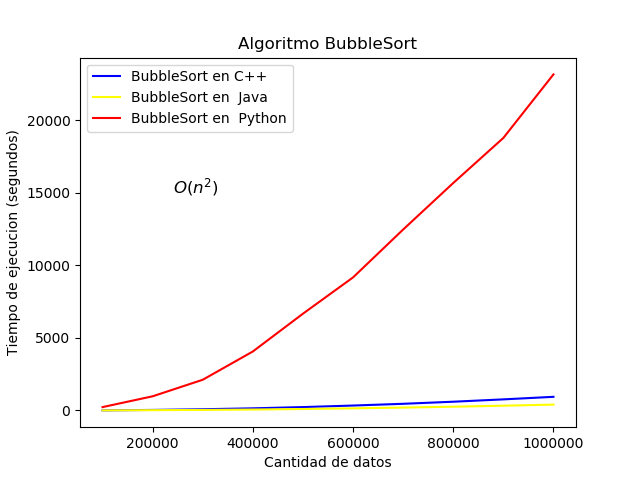
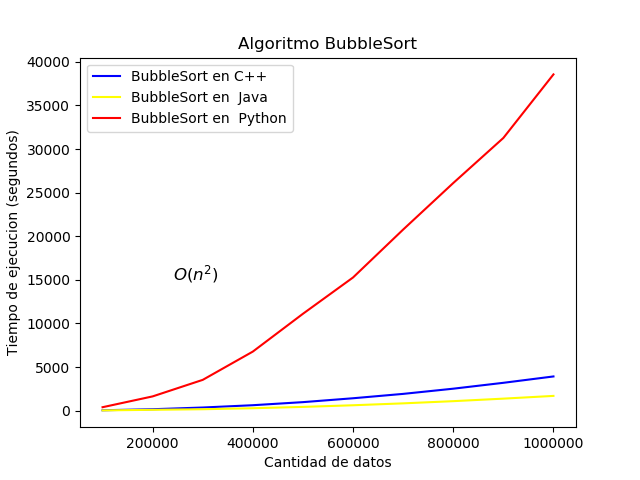
commit final

diff --git a/AlgoritmosOrdenamiento/Comparaciones/Graficos/src/grafjava.py b/AlgoritmosOrdenamiento/Comparaciones/Graficos/src/grafjava.py
@@ -1,0 +1,25 @@
+import numpy as np
+from matplotlib import pyplot as plt
+
+
+x1,y1 = np.loadtxt('Medidas/BubbleSortjav.txt' , delimiter=' ' , unpack=True)
+x2,y2 = np.loadtxt('Medidas/CountSortjav.txt' , delimiter=' ' , unpack=True)
+x3,y3 = np.loadtxt('Medidas/HeapSortjav.txt' , delimiter=' ' , unpack=True)
+x4,y4 = np.loadtxt('Medidas/InsertionSortjav.txt' , delimiter=' ' , unpack=True)
+x5,y5 = np.loadtxt('Medidas/MergeSortjav.txt' , delimiter=' ' , unpack=True)
+x6,y6 = np.loadtxt('Medidas/QuickSortjav.txt' , delimiter=' ' , unpack=True)
+x7,y7 = np.loadtxt('Medidas/SeleccionSortjav.txt' , delimiter=',' , unpack=True)
+
+plt.plot(x1,y1*25,color="red",label="BubbleSort")
+plt.plot(x2,y2,color="blue",label="CountSort")
+plt.plot(x3,y3,color="yellow",label="HeapSort")
+plt.plot(x4,y4*25,color="pink",label="InsertionSort")
+plt.plot(x5,y5,color="purple",label="MergeSort")
+plt.plot(x6,y6,color="green",label="QuickSort")
+plt.plot(x7,y7,color="skyblue",label="SeletionSort")
+
+plt.legend()
+plt.title('Algoritmos en Java')
+plt.xlabel('Cantidad de datos')
+plt.ylabel('Tiempo de ejecucion (segundos)')
+plt.show()

diff --git a/AlgoritmosOrdenamiento/Comparaciones/Graficos/src/grafpython.py b/AlgoritmosOrdenamiento/Comparaciones/Graficos/src/grafpython.py
@@ -1,0 +1,25 @@
+import numpy as np
+from matplotlib import pyplot as plt
+
+
+x1,y1 = np.loadtxt('Medidas/BubbleSortpy.txt' , delimiter=' ' , unpack=True)
+x2,y2 = np.loadtxt('Medidas/CountSortpy.txt' , delimiter=' ' , unpack=True)
+x3,y3 = np.loadtxt('Medidas/HeapSortpy.txt' , delimiter=' ' , unpack=True)
+x4,y4 = np.loadtxt('Medidas/InsertionSortpy.txt' , delimiter=' ' , unpack=True)
+x5,y5 = np.loadtxt('Medidas/MergeSortpy.txt' , delimiter=' ' , unpack=True)
+x6,y6 = np.loadtxt('Medidas/QuickSortpy.txt' , delimiter=' ' , unpack=True)
+x7,y7 = np.loadtxt('Medidas/SeleccionSortpy.txt' , delimiter=',' , unpack=True)
+
+plt.plot(x1,y1*25,color="red",label="BubbleSort")
+plt.plot(x2,y2,color="blue",label="CountSort")
+plt.plot(x3,y3,color="yellow",label="HeapSort")
+plt.plot(x4,y4*25,color="pink",label="InsertionSort")
+plt.plot(x5,y5,color="purple",label="MergeSort")
+plt.plot(x6,y6,color="green",label="QuickSort")
+plt.plot(x7,y7,color="skyblue",label="SeletionSort")
+
+plt.legend()
+plt.title('Algoritmos en python')
+plt.xlabel('Cantidad de datos')
+plt.ylabel('Tiempo de ejecucion (segundos)')
+plt.show()

diff --git a/AlgoritmosOrdenamiento/Comparaciones/Graficos/src/grafcc.py b/AlgoritmosOrdenamiento/Comparaciones/Graficos/src/grafcc.py
@@ -1,0 +1,25 @@
+import numpy as np
+from matplotlib import pyplot as plt
+
+
+x1,y1 = np.loadtxt('Medidas/BubbleSortcc.txt' , delimiter=' ' , unpack=True)
+x2,y2 = np.loadtxt('Medidas/CountSortcc.txt' , delimiter=' ' , unpack=True)
+x3,y3 = np.loadtxt('Medidas/HeapSortcc.txt' , delimiter=' ' , unpack=True)
+x4,y4 = np.loadtxt('Medidas/InsertionSortcc.txt' , delimiter=' ' , unpack=True)
+x5,y5 = np.loadtxt('Medidas/MergeSortcc.txt' , delimiter=' ' , unpack=True)
+x6,y6 = np.loadtxt('Medidas/QuickSortcc.txt' , delimiter=' ' , unpack=True)
+x7,y7 = np.loadtxt('Medidas/SeleccionSortcc.txt' , delimiter=',' , unpack=True)
+
+plt.plot(x1,y1*25,color="red",label="BubbleSort")
+plt.plot(x2,y2,color="blue",label="CountSort")
+plt.plot(x3,y3,color="yellow",label="HeapSort")
+plt.plot(x4,y4*25,color="pink",label="InsertionSort")
+plt.plot(x5,y5,color="purple",label="MergeSort")
+plt.plot(x6,y6,color="green",label="QuickSort")
+plt.plot(x7,y7,color="skyblue",label="SeletionSort")
+
+plt.legend()
+plt.title('Algoritmos en C++')
+plt.xlabel('Cantidad de datos')
+plt.ylabel('Tiempo de ejecucion (segundos)')
+plt.show()

diff --git a/AlgoritmosOrdenamiento/Comparaciones/Graficos/src/InsertionSort.py b/AlgoritmosOrdenamiento/Comparaciones/Graficos/src/InsertionSort.py
@@ -5,13 +5,13 @@ x1,y1 = np.loadtxt('Medidas/InsertionSortcc.txt' , delimiter=' ' , unpack=True)
 x2,y2 = np.loadtxt('Medidas/InsertionSortjav.txt' , delimiter=' ' , unpack=True)
 x3,y3 = np.loadtxt('Medidas/InsertionSortpy.txt' , delimiter=' ' , unpack=True)
 
-plt.plot(x1,y1*6,color="blue",label="InsertionSort en C++")
-plt.plot(x2,y2*6,color="yellow",label="InsertionSort en  Java")
-plt.plot(x3,y3*6,color="red",label="InsertionSort en  Python")
+plt.plot(x1,y1*25,color="blue",label="InsertionSort en C++")
+plt.plot(x2,y2*25,color="yellow",label="InsertionSort en  Java")
+plt.plot(x3,y3*25,color="red",label="InsertionSort en  Python")
 
 plt.legend()
 plt.title('Algoritmo InsertionSort')
 plt.xlabel('Cantidad de datos')
 plt.ylabel('Tiempo de ejecucion (segundos)')
-plt.text(240000,11000,r'$O(n^2)$', fontsize=12)
+plt.text(240000,18000,r'$O(n^2)$', fontsize=12)
 plt.show()

diff --git a/AlgoritmosOrdenamiento/Comparaciones/Graficos/src/BubbleSort.py b/AlgoritmosOrdenamiento/Comparaciones/Graficos/src/BubbleSort.py
@@ -5,9 +5,9 @@ x1,y1 = np.loadtxt('Medidas/BubbleSortcc.txt' , delimiter=' ' , unpack=True)
 x2,y2 = np.loadtxt('Medidas/BubbleSortjav.txt' , delimiter=' ' , unpack=True)
 x3,y3 = np.loadtxt('Medidas/BubbleSortpy.txt' , delimiter=' ' , unpack=True)
 
-plt.plot(x1,y1*6,color="blue",label="BubbleSort en C++")
-plt.plot(x2,y2*6,color="yellow",label="BubbleSort en  Java")
-plt.plot(x3,y3*6,color="red",label="BubbleSort en  Python")
+plt.plot(x1,y1*25,color="blue",label="BubbleSort en C++")
+plt.plot(x2,y2*25,color="yellow",label="BubbleSort en  Java")
+plt.plot(x3,y3*10,color="red",label="BubbleSort en  Python")
 
 plt.legend()
 plt.title('Algoritmo BubbleSort')
